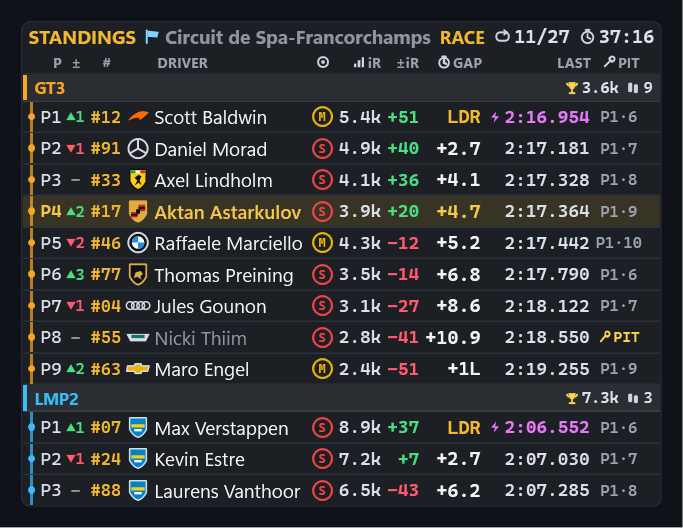
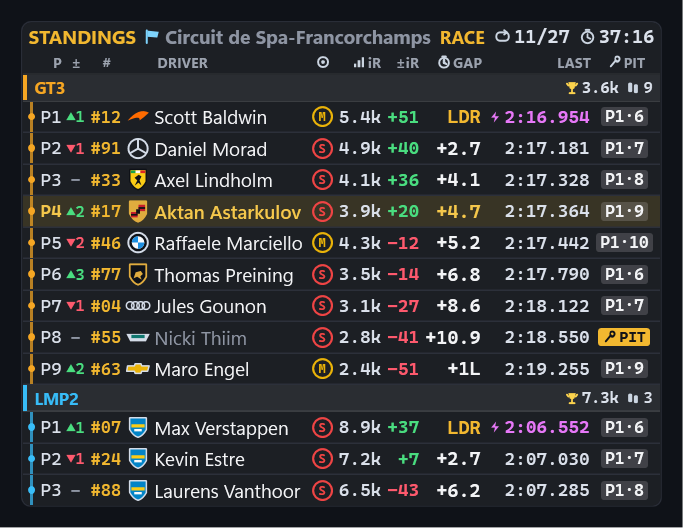
v1.1.10: high-contrast PIT/stint badges in Standings & Relative

Changed region(s): [[0.8609, 0.1818, 0.9531, 0.7273], [0.8609, 0.7879, 0.9531, 0.9697], [0.8917, 0.0909, 0.9531, 0.1515]]

diff --git a/Windows/HubWindow.xaml b/Windows/HubWindow.xaml
@@ -484,7 +484,7 @@
                     <Grid>
                         <TextBlock Text="В iRacing включи Borderless Windowed • Глобальный хоткей Lock/Unlock: Ctrl + Shift + L"
                                    FontSize="11" Foreground="#FF64748B" VerticalAlignment="Center" />
-                        <TextBlock Text="ApexHUD 1.1.9" FontFamily="{StaticResource HudMonoFont}" FontSize="10.5" Foreground="#FF475569" HorizontalAlignment="Right" VerticalAlignment="Center" />
+                        <TextBlock Text="ApexHUD 1.1.10" FontFamily="{StaticResource HudMonoFont}" FontSize="10.5" Foreground="#FF475569" HorizontalAlignment="Right" VerticalAlignment="Center" />
                     </Grid>
                 </Border>
             </Grid>

diff --git a/Windows/StandingsWindow.cs b/Windows/StandingsWindow.cs
@@ -60,6 +60,10 @@ public sealed class StandingsWindow : OverlayWindowBase
     private static readonly SolidColorBrush GainGreen = FormatHelpers.GetFrozenBrush("#4ADE80");
     private static readonly SolidColorBrush LossRed = FormatHelpers.GetFrozenBrush("#FF5A6E");
     private static readonly SolidColorBrush PitAmber = FormatHelpers.GetFrozenBrush("#FCD34D");
+    private static readonly SolidColorBrush PitBadgeBg = FormatHelpers.GetFrozenBrush("#FFF2B830");
+    private static readonly SolidColorBrush PitBadgeText = FormatHelpers.GetFrozenBrush("#FF111318");
+    private static readonly SolidColorBrush StintPittedBg = FormatHelpers.GetFrozenBrush("#28FFFFFF");
+    private static readonly SolidColorBrush StintCleanText = FormatHelpers.GetFrozenBrush("#FFD6DFEC");
     private static readonly SolidColorBrush PurpleBest = FormatHelpers.GetFrozenBrush("#E879F9");
     private static readonly SolidColorBrush CarNumBgCarbon = FormatHelpers.GetFrozenBrush("#24FFFFFF");
 
@@ -120,6 +124,7 @@ public sealed class StandingsWindow : OverlayWindowBase
         public StackPanel LapPanel = null!;
         public HudMetricIcon FastestBolt = null!;
         public TextBlock LapText = null!;
+        public Border PitBadge = null!;
         public StackPanel PitPanel = null!;
         public HudMetricIcon PitWrench = null!;
         public TextBlock PitText = null!;
@@ -839,29 +844,37 @@ public sealed class StandingsWindow : OverlayWindowBase
         Grid.SetColumn(rv.LapPanel, 10);
         g.Children.Add(rv.LapPanel);
 
-        // Col 11: Pit / Stint
+        // Col 11: High-contrast Pit / Stint badge
         rv.PitPanel = new StackPanel
         {
             Orientation = Orientation.Horizontal,
             HorizontalAlignment = HorizontalAlignment.Center,
-            VerticalAlignment = VerticalAlignment.Center,
-            Margin = new Thickness(1, 0, 4, 0)
+            VerticalAlignment = VerticalAlignment.Center
         };
-        rv.PitWrench = new HudMetricIcon(HudIconKind.Wrench, "#FCD34D", 9)
+        rv.PitWrench = new HudMetricIcon(HudIconKind.Wrench, "#111318", 9)
         {
-            Margin = new Thickness(0, 0, 1.5, 0),
+            Margin = new Thickness(0, 0, 2, 0),
             Visibility = Visibility.Collapsed
         };
         rv.PitText = new TextBlock
         {
             FontFamily = _monoFont,
-            FontSize = FontSz(10),
+            FontSize = FontSz(10.5),
             VerticalAlignment = VerticalAlignment.Center
         };
         rv.PitPanel.Children.Add(rv.PitWrench);
         rv.PitPanel.Children.Add(rv.PitText);
-        Grid.SetColumn(rv.PitPanel, 11);
-        g.Children.Add(rv.PitPanel);
+        rv.PitBadge = new Border
+        {
+            CornerRadius = new CornerRadius(2),
+            Padding = new Thickness(3, 0, 3, 0),
+            Margin = new Thickness(1, 2, 4, 2),
+            HorizontalAlignment = HorizontalAlignment.Center,
+            VerticalAlignment = VerticalAlignment.Center,
+            Child = rv.PitPanel
+        };
+        Grid.SetColumn(rv.PitBadge, 11);
+        g.Children.Add(rv.PitBadge);
 
         rv.Container = new Border
         {
@@ -954,22 +967,46 @@ public sealed class StandingsWindow : OverlayWindowBase
             rv.LapText.FontWeight = d.IsClassBestLap ? FontWeights.Bold : FontWeights.SemiBold;
         }
 
-        rv.PitPanel.Visibility = Settings.ShowStandingsPits ? Visibility.Visible : Visibility.Collapsed;
+        rv.PitBadge.Visibility = Settings.ShowStandingsPits ? Visibility.Visible : Visibility.Collapsed;
         if (Settings.ShowStandingsPits)
         {
             if (d.IsOnPitRoad)
             {
+                rv.PitBadge.Background = PitBadgeBg;
+                rv.PitBadge.Padding = new Thickness(3, 0, 3, 0);
                 rv.PitWrench.Visibility = Visibility.Visible;
                 rv.PitText.Text = "PIT";
                 rv.PitText.FontSize = FontSz(9.5);
+                rv.PitText.FontWeight = FontWeights.ExtraBold;
+                rv.PitText.Foreground = PitBadgeText;
+            }
+            else if (d.PitStops > 0)
+            {
+                rv.PitBadge.Background = StintPittedBg;
+                rv.PitBadge.Padding = new Thickness(3, 0, 3, 0);
+                rv.PitWrench.Visibility = Visibility.Collapsed;
+                rv.PitText.Text = $"P{d.PitStops}·{d.StintLaps}";
+                rv.PitText.FontSize = FontSz(10.5);
                 rv.PitText.FontWeight = FontWeights.Bold;
-                rv.PitText.Foreground = PitAmber;
+                rv.PitText.Foreground = TextWhite;
+            }
+            else if (d.StintLaps > 0)
+            {
+                rv.PitBadge.Background = Brushes.Transparent;
+                rv.PitBadge.Padding = new Thickness(2, 0, 2, 0);
+                rv.PitWrench.Visibility = Visibility.Collapsed;
+                rv.PitText.Text = $"L{d.StintLaps}";
+                rv.PitText.FontSize = FontSz(10.5);
+                rv.PitText.FontWeight = FontWeights.SemiBold;
+                rv.PitText.Foreground = StintCleanText;
             }
             else
             {
+                rv.PitBadge.Background = Brushes.Transparent;
+                rv.PitBadge.Padding = new Thickness(2, 0, 2, 0);
                 rv.PitWrench.Visibility = Visibility.Collapsed;
-                rv.PitText.Text = d.PitStops > 0 ? $"P{d.PitStops}·{d.StintLaps}" : (d.StintLaps > 0 ? $"L{d.StintLaps}" : "-");
-                rv.PitText.FontSize = FontSz(10);
+                rv.PitText.Text = "-";
+                rv.PitText.FontSize = FontSz(10.5);
                 rv.PitText.FontWeight = FontWeights.SemiBold;
                 rv.PitText.Foreground = TextMuted;
             }

diff --git a/Windows/RelativeWindow.cs b/Windows/RelativeWindow.cs
@@ -50,9 +50,9 @@ public sealed class RelativeWindow : OverlayWindowBase
     private static readonly SolidColorBrush PlayerAccentCarbon = FormatHelpers.GetFrozenBrush("#93C5FD");
     private static readonly SolidColorBrush FasterRed = FormatHelpers.GetFrozenBrush("#FF5A6E");
     private static readonly SolidColorBrush SlowerGreen = FormatHelpers.GetFrozenBrush("#4ADE80");
-    private static readonly SolidColorBrush PitTagBg = FormatHelpers.GetFrozenBrush("#55F59E0B");
-    private static readonly SolidColorBrush OutTagBg = FormatHelpers.GetFrozenBrush("#5538BDF8");
-    private static readonly SolidColorBrush OffTagBg = FormatHelpers.GetFrozenBrush("#55EF4444");
+    private static readonly SolidColorBrush PitTagBg = FormatHelpers.GetFrozenBrush("#FFF2B830");
+    private static readonly SolidColorBrush OutTagBg = FormatHelpers.GetFrozenBrush("#FF0284C7");
+    private static readonly SolidColorBrush OffTagBg = FormatHelpers.GetFrozenBrush("#FFDC2626");
     private static readonly SolidColorBrush AmberText = FormatHelpers.GetFrozenBrush("#FCD34D");
     private static readonly SolidColorBrush CarNumBoxBg = FormatHelpers.GetFrozenBrush("#24FFFFFF");
 
@@ -498,27 +498,27 @@ public sealed class RelativeWindow : OverlayWindowBase
                 rv.StatusBadge.Visibility = Visibility.Visible;
                 rv.StatusBadge.Background = PitTagBg;
                 rv.StatusIcon.Kind = HudIconKind.Wrench;
-                rv.StatusIcon.Tint = AmberText;
+                rv.StatusIcon.Tint = DarkText;
                 rv.StatusText.Text = "PIT";
-                rv.StatusText.Foreground = AmberText;
+                rv.StatusText.Foreground = DarkText;
             }
             else if (e.IsOutLap)
             {
                 rv.StatusBadge.Visibility = Visibility.Visible;
                 rv.StatusBadge.Background = OutTagBg;
                 rv.StatusIcon.Kind = HudIconKind.OutLap;
-                rv.StatusIcon.Tint = LapDownBrush;
+                rv.StatusIcon.Tint = TextWhite;
                 rv.StatusText.Text = "OUT";
-                rv.StatusText.Foreground = LapDownBrush;
+                rv.StatusText.Foreground = TextWhite;
             }
             else if (e.IsOffTrack)
             {
                 rv.StatusBadge.Visibility = Visibility.Visible;
                 rv.StatusBadge.Background = OffTagBg;
                 rv.StatusIcon.Kind = HudIconKind.Warning;
-                rv.StatusIcon.Tint = LapAheadBrush;
+                rv.StatusIcon.Tint = TextWhite;
                 rv.StatusText.Text = "OFF";
-                rv.StatusText.Foreground = LapAheadBrush;
+                rv.StatusText.Foreground = TextWhite;
             }
             else
             {

diff --git a/README.md b/README.md
@@ -82,7 +82,7 @@
 ## Быстрый старт
 
 1. Скачай из раздела **[Releases](https://github.com/astarkulov/z-overlay/releases/latest)** любой удобный вариант (требуется [.NET 6 Desktop Runtime](https://dotnet.microsoft.com/en-us/download/dotnet/6.0)):
-   - **`Z-Overlay-Setup-v1.1.9.exe`** — классический установщик Windows (Inno Setup: ярлык на рабочий стол, опция автозапуска с Windows, чистая деинсталляция);
+   - **`Z-Overlay-Setup-v1.1.10.exe`** — классический установщик Windows (Inno Setup: ярлык на рабочий стол, опция автозапуска с Windows, чистая деинсталляция);
    - **`ApexHUD.exe`** — портативный однофайловый вариант (~395 КБ), работает без установки.
 2. Запусти приложение — со старта включён **Демо-режим (60 Гц)**, чтобы сразу расставить виджеты, выбрать тему, масштаб, прозрачность и шрифты.
 3. Нажми **Закрепить для гонки (`Ctrl + Shift + L`)** — все виджеты станут click-through.
@@ -111,4 +111,4 @@ dotnet publish ApexHUD.csproj -c Release -r win-x64 --self-contained false -p:Pu
 .\installer\build-installer.ps1
 ```
 
-Установщик появится в `dist\Z-Overlay-Setup-v1.1.9.exe`.
+Установщик появится в `dist\Z-Overlay-Setup-v1.1.10.exe`.
